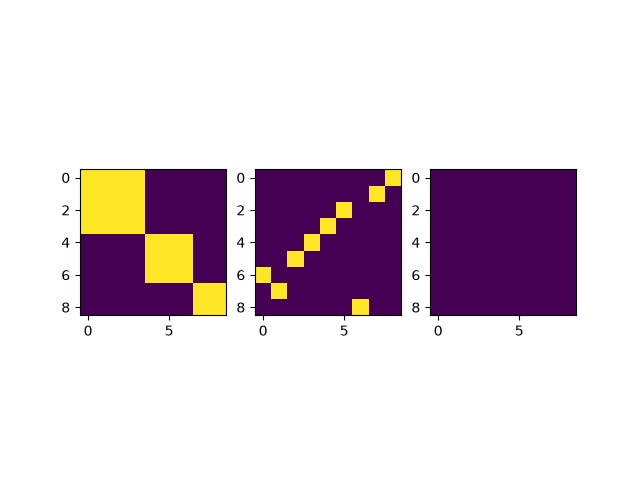
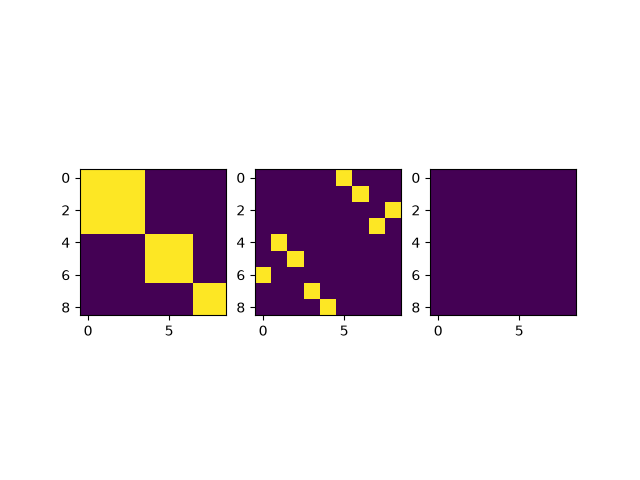
validity assertion

Changed region(s): [[0.4062, 0.3438, 0.625, 0.5312], [0.4062, 0.5625, 0.5, 0.625], [0.5, 0.625, 0.5938, 0.6562]]

diff --git a/src/secretsanta/matching.py b/src/secretsanta/matching.py
@@ -28,6 +28,20 @@ def build_solution_digraph(
     return sol_graph
 
 
+def assert_validity(matching: np.ndarray, constraint_matrix: np.ndarray) -> None:
+    if (matching * constraint_matrix).sum() > 0:
+        msg = "Solution has non-zero cost. Problem is infeasible"
+        raise FeasibilityError(msg)
+
+    if not np.array_equal(matching.sum(axis=0), np.ones_like(matching[0])):
+        msg = "Incorrect first marginal!"
+        raise RuntimeError(msg)
+
+    if not np.array_equal(matching.sum(axis=1), np.ones_like(matching[:, 0])):
+        msg = "Incorrect second marginal!"
+        raise RuntimeError(msg)
+
+
 def draw_new_edge(
     current_index: int, current_matching: np.ndarray, constraint_matrix: np.ndarray
 ) -> np.ndarray:
@@ -83,11 +97,14 @@ def draw_valid_matching(constraint_matrix: np.ndarray) -> np.ndarray:
     """Draws a random valid matching for the given constraint matrix."""
 
     try:
-        return draw_new_edge(
+        matching = draw_new_edge(
             current_index=0,
             current_matching=np.zeros_like(constraint_matrix),
             constraint_matrix=constraint_matrix,
         )
+        assert_validity(matching=matching, constraint_matrix=constraint_matrix)
+        return matching
+
     except FeasibilityError:
         msg = "Failed to find a valid solution in the recursion. Problem is infeasible."
         raise FeasibilityError(msg)
